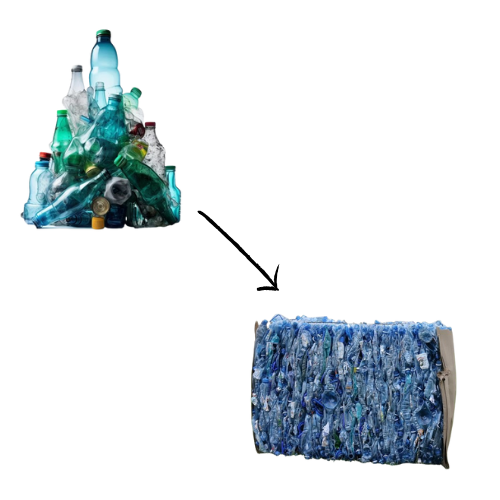
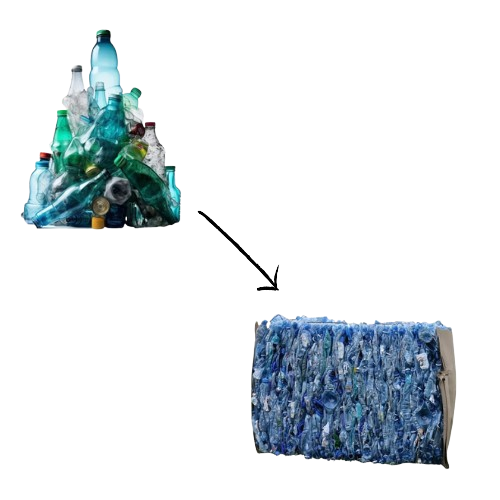
Additoinal Pic Homepage

diff --git a/src/app/page.tsx b/src/app/page.tsx
@@ -26,7 +26,14 @@ import plasticBottles from "./images/PET_Bottles.jpg"
 import petBale from "./images/PET_Bale.png"
 import aluminumBale from "./images/Aluminum_Can_Bale.png"
 import fiberBale from "./images/Coir_Fiber.png"
-// import cardboardBale from "./images/Baler/Cardboard_Bale.png"
+import plasticBeams from "./images/Extrusion/Beam_Mold_Output.png"
+import plantPot from "./images/Extrusion/Rectangular_Pot.png"
+import keyChains from "./images/Extrusion/Elephant_Keychain.png"
+import trophy from "./images/Extrusion/Trophy_Output.png"
+import beamMold from "./images/Extrusion/Beam_Mold.png"
+import potMold from "./images/Extrusion/Pot_Mold.png"
+import keyChainMold from "./images/Extrusion/Elephant_Mold.png"
+import trophyMold from "./images/Extrusion/Trophy_Mold.png"
 
 
 
@@ -36,7 +43,7 @@ import Link from "next/link"
 //This is the home function
 export default function Home() {
   return (
-    <div className="flex flex-col">
+    <div className="flex flex-col bg-white">
       <main className="flex-1 flex flex-col">
         <Hero />
         <div className="space-y-20 my-12">
@@ -360,77 +367,101 @@ function Products() {
 
             <h2 className="mb-8 text-2xl">Sample Molds & Products</h2>
             <div className="grid grid-cols-4 gap-4">
+            <div className="flex flex-col items-center">
+              <div className="square-full w-20 h-20 bg-white-200 flex items-center justify-center overflow-hidden">
+                  <Image
+                    src={plasticBeams}
+                    alt="Plastic Beams"
+                    width={150}
+                    height={150}
+                    className="object-contain"
+                  />
+              </div>
+              <p className="mt-2 text-center">Plastic Beams</p>
+            </div>
               <div className="flex flex-col items-center">
-                <Image
-                  src={heroImage}
+              <div className="square-full w-20 h-20 bg-white-200 flex items-center justify-center overflow-hidden">
+                  <Image
+                  src={plantPot}
                   alt="Next.js logo"
-                  priority
-                  className="object-cover rounded-full w-20 h-20"
-                />
-                <p>Plastic Beams</p>
+                  width={80}
+                  height={80}
+                  className="object-contain"
+                  />
+              </div>
+                <p className="mt-2 text-center">Plant Pots</p>
               </div>
               <div className="flex flex-col items-center">
-                <Image
-                  src={heroImage}
+              <div className="square-full w-20 h-20 bg-white-200 flex items-center justify-center overflow-hidden">
+                  <Image
+                  src={keyChains}
                   alt="Next.js logo"
-                  priority
-                  className="object-cover rounded-full w-20 h-20"
-                />
-                <p>Plant Pots</p>
+                  width={70}
+                  height={70}
+                  className="object-contain"
+                  />
+              </div>
+                <p className="mt-2 text-center">Keychains</p>
               </div>
               <div className="flex flex-col items-center">
-                <Image
-                  src={heroImage}
+              <div className="rounded-full w-20 h-20 bg-white-200 flex items-center justify-center overflow-hidden">
+                  <Image
+                  src={trophy}
                   alt="Next.js logo"
-                  priority
-                  className="object-cover rounded-full w-20 h-20"
-                />
-                <p>Keychains</p>
+                  width={50}
+                  height={50}
+                  className="object-contain"
+                  />
+              </div>
+                <p className="mt-2 text-center">Trophy</p>
               </div>
               <div className="flex flex-col items-center">
-                <Image
-                  src={heroImage}
+              <div className="square-full w-20 h-20 bg-white-200 flex items-center justify-center overflow-hidden">
+                  <Image
+                  src={beamMold}
                   alt="Next.js logo"
-                  priority
-                  className="object-cover rounded-full w-20 h-20"
-                />
-                <p>Trophy</p>
+                  width={90}
+                  height={90}
+                  className="object-contain"
+                  />
+              </div>
+                <p className="mt-2 text-center">Beam Molds</p>
               </div>
               <div className="flex flex-col items-center">
-                <Image
-                  src={heroImage}
-                  alt="Next.js logo"
-                  priority
-                  className="object-cover rounded-full w-20 h-20"
-                />
-                <p>Beam Molds</p>
+                <div className="square-full w-20 h-20 bg-white-200 flex items-center justify-center overflow-hidden">
+                    <Image
+                      src={potMold}
+                      alt="Plastic Beams"
+                      width={150}
+                      height={150}
+                      className="object-contain"
+                    />
+                </div>
+                <p className="mt-2 text-center">Pot Mold</p>
               </div>
               <div className="flex flex-col items-center">
-                <Image
-                  src={heroImage}
-                  alt="Next.js logo"
-                  priority
-                  className="object-cover rounded-full w-20 h-20"
-                />
-                <p>Pot Molds</p>
+                <div className="rounded-4xl w-20 h-20 bg-white-200 flex items-center justify-center overflow-hidden">
+                    <Image
+                      src={keyChainMold}
+                      alt="Plastic Beams"
+                      width={70}
+                      height={70}
+                      className="object-contain"
+                    />
+                </div>
+                <p className="mt-2 text-center">KeyChain Molds</p>
               </div>
               <div className="flex flex-col items-center">
-                <Image
-                  src={heroImage}
-                  alt="Next.js logo"
-                  priority
-                  className="object-cover rounded-full w-20 h-20"
-                />
-                <p>Keychain Molds</p>
-              </div>
-              <div className="flex flex-col items-center">
-                <Image
-                  src={heroImage}
-                  alt="Next.js logo"
-                  priority
-                  className="object-cover rounded-full w-20 h-20"
-                />
-                <p>Trophy Molds</p>
+                <div className="square-full w-20 h-20 bg-white-200 flex items-center justify-center overflow-hidden">
+                    <Image
+                      src={trophyMold}
+                      alt="Plastic Beams"
+                      width={180}
+                      height={180}
+                      className="object-contain"
+                    />
+                </div>
+                <p className="mt-2 text-center">Trophy Molds</p>
               </div>
           </div>
               <div className="flex flex-col items-left space-y-20 my-6">
